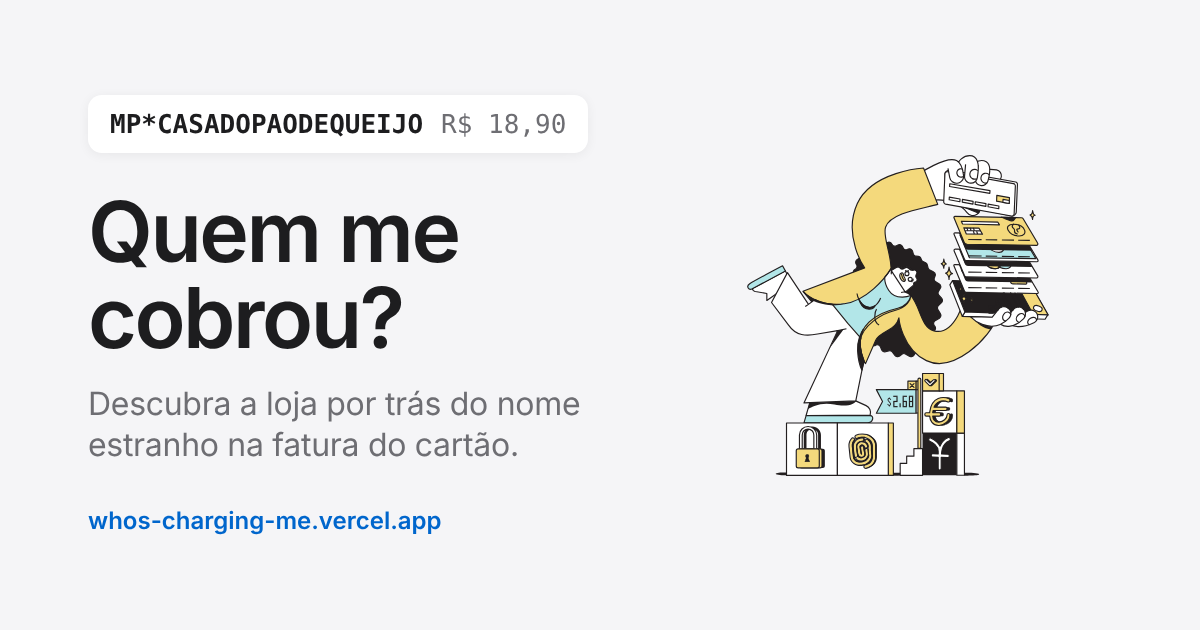
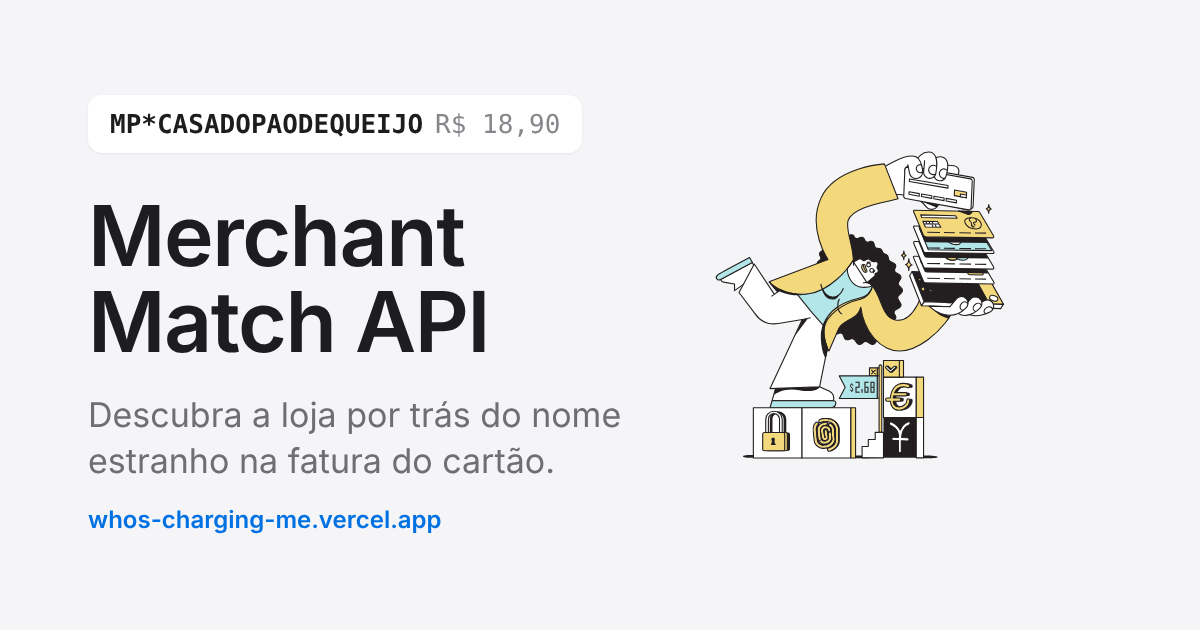
Troca o nome do produto para Merchant Match API
Site, meta tags, imagem de compartilhamento, README e protótipos.
Telas que imitam o C6 seguem sem o nosso nome.

Claude-Session: https://claude.ai/code/session_018V6BQFsrPtrnQcWKnwVVmP

diff --git a/index.html b/index.html
@@ -4,7 +4,7 @@
     <meta charset="utf-8" />
     <meta name="viewport" content="width=device-width, initial-scale=1" />
     <meta name="color-scheme" content="light" />
-    <title>Quem me cobrou?</title>
+    <title>Merchant Match API</title>
     <meta name="description" content="Descubra a loja por trás do nome estranho na fatura do cartão. Mostramos a fonte, o grau de certeza e ajudamos a contestar." />
     <link rel="icon" href="/favicon.svg" type="image/svg+xml" />
     <link rel="apple-touch-icon" href="/apple-touch-icon.png" />
@@ -13,16 +13,16 @@
     <!-- Imagem e texto que aparecem ao compartilhar o link (WhatsApp, LinkedIn, X) -->
     <meta property="og:type" content="website" />
     <meta property="og:locale" content="pt_BR" />
-    <meta property="og:site_name" content="Quem me cobrou?" />
-    <meta property="og:title" content="Quem me cobrou?" />
+    <meta property="og:site_name" content="Merchant Match API" />
+    <meta property="og:title" content="Merchant Match API" />
     <meta property="og:description" content="Descubra a loja por trás do nome estranho na fatura do cartão." />
     <meta property="og:url" content="https://whos-charging-me.vercel.app/" />
     <meta property="og:image" content="https://whos-charging-me.vercel.app/og.png" />
     <meta property="og:image:width" content="1200" />
     <meta property="og:image:height" content="630" />
-    <meta property="og:image:alt" content="Quem me cobrou? Descubra a loja por trás do nome estranho na fatura do cartão." />
+    <meta property="og:image:alt" content="Merchant Match API Descubra a loja por trás do nome estranho na fatura do cartão." />
     <meta name="twitter:card" content="summary_large_image" />
-    <meta name="twitter:title" content="Quem me cobrou?" />
+    <meta name="twitter:title" content="Merchant Match API" />
     <meta name="twitter:description" content="Descubra a loja por trás do nome estranho na fatura do cartão." />
     <meta name="twitter:image" content="https://whos-charging-me.vercel.app/og.png" />
     <link rel="preconnect" href="https://fonts.googleapis.com" />

diff --git a/src/prototipos/Inicio.jsx b/src/prototipos/Inicio.jsx
@@ -4,7 +4,7 @@ export default function Inicio() {
     <main className="pagina">
       <a className="botao botao--link" href="#/">← Voltar ao site</a>
       <h1>Protótipos</h1>
-      <p className="subtitulo">Como o "Quem me cobrou?" chega às pessoas: dentro do app do banco ou dentro de um app de finanças. São telas clicáveis, com dados de exemplo. Conceito, sem vínculo com o banco.</p>
+      <p className="subtitulo">Como a Merchant Match API chega às pessoas: dentro do app do banco ou dentro de um app de finanças. São telas clicáveis, com dados de exemplo. Conceito, sem vínculo com o banco.</p>
       <ul className="proto-escolha">
         <li>
           <a className="proto-escolha__item" href="#/prototipos/cenario-1">

diff --git a/src/prototipos/Cenario1.jsx b/src/prototipos/Cenario1.jsx
@@ -1,4 +1,4 @@
-// Protótipo B2B: o "Quem me cobrou?" dentro do app de um banco. O visual imita o app do C6 Bank (conceito, sem vínculo).
+// Protótipo B2B: a Merchant Match API dentro do app de um banco. O visual imita o app do C6 Bank (conceito, sem vínculo).
 // O banco já sabe o nome e o local da compra. A pessoa só toca na compra.
 // Jornada: tela inicial (destaque "Não reconhece uma compra?") -> cartão -> detalhe (loja achada) -> contestar -> enviado.
 import { useCallback, useState } from "react";

diff --git a/src/prototipos/marca.js b/src/prototipos/marca.js
@@ -3,7 +3,7 @@
 
 // Cenário 2: o nosso app (a Aline vai definir o branding).
 export const MARCA = {
-  nome: "Quem me cobrou?",
+  nome: "Merchant Match API",
   letraLogo: "?",          // letra ou símbolo dentro do quadrado do logo
   cor: "#f5c518",          // cor principal (botões, destaques). Amarelo, com gradiente sutil nos botões.
   corFoco: "#ffdb4d",      // tom mais claro: topo do gradiente e mouse por cima

diff --git a/src/App.jsx b/src/App.jsx
@@ -52,7 +52,7 @@ export default function App() {
     <main className="pagina">
       <header className={tela === "busca" ? "cabecalho cabecalho--com-ilustracao" : "cabecalho"}>
         <div>
-          <h1>Quem me cobrou?</h1>
+          <h1>Merchant Match API</h1>
           <p className="subtitulo">
             Viu um nome estranho na fatura do cartão? Digite aqui. A gente descobre qual é a loja.
           </p>

diff --git a/README.md b/README.md
@@ -1,4 +1,6 @@
-# Quem me cobrou? (whos-charging-me)
+# Merchant Match API
+
+Antes se chamava "Quem me cobrou?" (whos-charging-me). O endereço do site e do repositório continuam iguais.
 
 Projeto do hackathon HackBrasil 2026.
 
